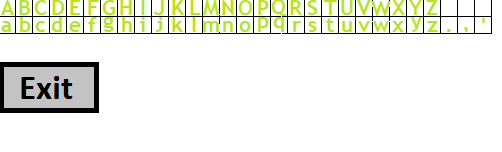
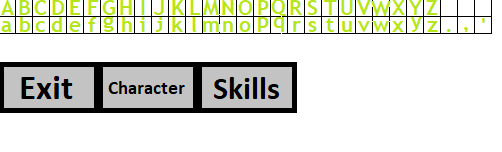
Character Screen
Sorta implemented a Character Screen.
Shows how multiple screen can be used

Changed region(s): [[0.1793, 0.3947, 0.5976, 0.7632]]

diff --git a/main.py b/main.py
@@ -38,7 +38,9 @@ class Game:
         #list of items in chests or available for PU in the zone, empty and reload when zoning
         self.items = []
 
-        #
+        #keep last zone for inmenu
+        self.lastzone = 0
+
         #set battle timers
         self.playertimer = pygame.event.custom_type()
         self.mobtimer = pygame.event.custom_type()
@@ -168,7 +170,7 @@ class Game:
                         self.party[self.top_character].x = j
                         self.party[self.top_character].y = i
         
-        elif map == MENU:
+        elif map == MAINMENU:
             #empty the sprite groups
             self.all_sprites.empty()
             self.blocks.empty()
@@ -180,7 +182,30 @@ class Game:
                     if column == "A":
                         StaticSprite(self, j, i, FRANTIKWALLX, FRANTIKWALLY, BLOCK_LAYER)
                     if column == "F":
-                        self.menuboxes.append(StaticSprite(self, j, i, 0, 32, TEXT_LAYER))
+                        self.menuboxes.append(StaticSprite(self, j, i, EXITBUTTONX, EXITBUTTONY, TEXT_LAYER))
+                    if column == "G":
+                        self.menuboxes.append(StaticSprite(self, j, i, CHARACTERBUTTONX, CHARACTERBUTTONY, TEXT_LAYER))
+                    if column == "H":
+                        self.menuboxes.append(StaticSprite(self, j, i, SPELLSBUTTONX, SPELLSBUTTONY, TEXT_LAYER))
+        
+        elif map == CHARACTERMENU:
+            #empty the sprite groups
+            self.all_sprites.empty()
+            self.blocks.empty()
+            self.text.empty()
+            self.menuboxes.clear()
+
+            for i, row in enumerate(map):
+                for j, column in enumerate(row):
+                    StaticSprite(self, j, i, FRANTIKGROUNDX, FRANTIKGROUNDY, GROUND_LAYER)
+                    if column == "A":
+                        StaticSprite(self, j, i, FRANTIKWALLX, FRANTIKWALLY, BLOCK_LAYER)
+                    if column == "F":
+                        self.menuboxes.append(StaticSprite(self, j, i, EXITBUTTONX, EXITBUTTONY, TEXT_LAYER))
+                    if column == "G":
+                        self.menuboxes.append(StaticSprite(self, j, i, CHARACTERBUTTONX, CHARACTERBUTTONY, TEXT_LAYER))
+                    if column == "H":
+                        self.menuboxes.append(StaticSprite(self, j, i, SPELLSBUTTONX, SPELLSBUTTONY, TEXT_LAYER))
 
 #Roll a Natural 20 on the dice.
 #Roll the dice again with all the exact same bonuses that were applied to the Natural 20 roll.
@@ -281,7 +306,7 @@ class Game:
                     while i < self.menuboxes.__len__():
                         
                         #if hitting the exit button
-                        if i == 0 and self.menuboxes[i].rect.collidepoint(mouse_pos):
+                        if i == EXIT and self.menuboxes[i].rect.collidepoint(mouse_pos):
                             self.inmenu = False
                             #empty the sprite groups
                             self.all_sprites.empty()
@@ -291,7 +316,10 @@ class Game:
                             #re-add player to all_sprites group
                             self.all_sprites.add(self.playersprite)
                             #go back to zone
+                            self.current_zone.id = self.lastzone
                             self.createTilemap(self.current_zone.id)
+                        elif i == CHARACTER and self.menuboxes[i].rect.collidepoint(mouse_pos):
+                            self.createTilemap(CHARACTERMENU)
                         i += 1
 
             elif event.type == self.mobtimer:
@@ -386,13 +414,14 @@ class Game:
             self.draw()
 
     def menu(self):       
+        self.lastzone = self.current_zone.id
         #empty the sprite groups
         self.all_sprites.empty()
         self.blocks.empty()
         self.enemies.empty()
         self.zonelines.empty()
 
-        self.createTilemap(MENU)
+        self.createTilemap(MAINMENU)
         #force draw new sprites
         self.draw()
         self.update()

diff --git a/config.py b/config.py
@@ -170,9 +170,42 @@ BATTLEMENUWALLY = 0
 BATTLEMENUBACKX = 192
 BATTLEMENUBACKY = 128
 
-MENU = [
+MAINMENU = [
 'AAAAAAAAAAAAAAAAAAAAAAAAA',
-'AF...F..................A',
+'AF...G...H..............A',
+'A.......................A',
+'A.......................A',
+'A.......................A',
+'A.......................A',
+'A.......................A',
+'A.......................A',
+'A.......................A',
+'A.......................A',
+'A.......................A',
+'A.......................A',
+'A.......................A',
+'A.......................A',
+'AAAAAAAAAAAAAAAAAAAAAAAAA',
+'A.......................A',
+'A.......................A',
+'A.......................A',
+'AAAAAAAAAAAAAAAAAAAAAAAAA',
+]
+
+EXIT = 0
+CHARACTER = 1
+INVENTORY = 2
+
+EXITBUTTONX = 0
+EXITBUTTONY = 32
+CHARACTERBUTTONX = 101
+CHARACTERBUTTONY = 32
+SPELLSBUTTONX = 199
+SPELLSBUTTONY = 32
+
+CHARACTERMENU = [
+'AAAAAAAAAAAAAAAAAAAAAAAAA',
+'AF...G...H..............A',
 'A.......................A',
 'A.......................A',
 'A.......................A',
